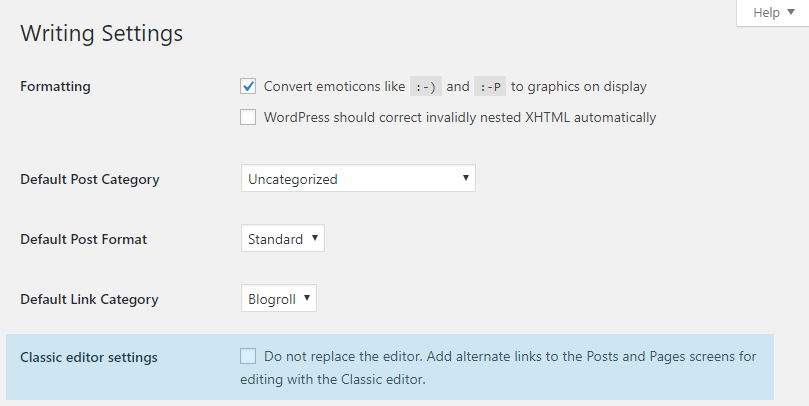
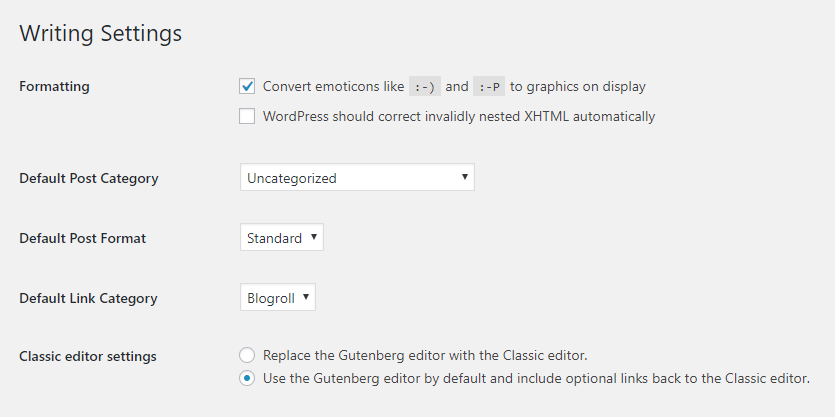
Sync with 0.4
See readme.txt

diff --git a/classic-editor.php b/classic-editor.php
@@ -5,7 +5,7 @@
  * Plugin Name: Classic Editor
  * Plugin URI:  https://wordpress.org
  * Description: Enables the WordPress classic editor and the old-style Edit Post screen layout (TinyMCE, meta boxes, etc.). Supports the older plugins that extend this screen.
- * Version:     0.2
+ * Version:     0.4
  * Author:      WordPress Contributors
  * License:     GPL-2.0+
  * License URI: http://www.gnu.org/licenses/old-licenses/gpl-2.0.html
@@ -34,7 +34,7 @@ if ( ! defined( 'ABSPATH' ) ) {
  * @return bool Whether the Gutenberg plugin is active.
  */
 function classic_editor_is_gutenberg_active() {
-	if ( in_array( 'gutenberg/gutenberg.php', (array) get_option( 'active_plugins', array() ) ) ||
+	if ( in_array( 'gutenberg/gutenberg.php', (array) get_option( 'active_plugins' ) ) ||
 		( is_multisite() && array_key_exists( 'gutenberg/gutenberg.php', (array) get_site_option( 'active_sitewide_plugins' ) ) ) ) {
 
 		return true;
@@ -45,6 +45,13 @@ function classic_editor_is_gutenberg_active() {
 
 add_action( 'plugins_loaded', 'classic_editor_init_actions' );
 function classic_editor_init_actions() {
+	// Always remove the "Try Gutenberg" dashboard widget. See https://core.trac.wordpress.org/ticket/44635.
+	remove_action( 'try_gutenberg_panel', 'wp_try_gutenberg_panel' );
+
+	// Always show the settings and the link to them in the plugins list table.
+	add_filter( 'plugin_action_links', 'classic_editor_add_settings_link', 10, 2 );
+	add_action( 'admin_init', 'classic_editor_admin_init' );
+
 	if ( ! classic_editor_is_gutenberg_active() || ! (
 		has_filter( 'replace_editor', 'gutenberg_init' ) ||
 		has_filter( 'load-post.php', 'gutenberg_intercept_edit_post' ) ) ) {
@@ -58,15 +65,10 @@ function classic_editor_init_actions() {
 	if ( $replace || isset( $_GET['classic-editor'] ) ) {
 		// gutenberg.php
 		remove_action( 'admin_menu', 'gutenberg_menu' );
-		remove_action( 'load-post.php', 'gutenberg_intercept_edit_post' );
-		remove_action( 'load-post-new.php', 'gutenberg_intercept_post_new' );
 		remove_action( 'admin_notices', 'gutenberg_wordpress_version_notice' );
 		remove_action( 'admin_init', 'gutenberg_redirect_demo' );
 
 		remove_filter( 'replace_editor', 'gutenberg_init' );
-
-		// lib/blocks.php
-		remove_filter( 'wp_insert_post_data', 'gutenberg_wpautop_insert_post_data' );
 
 		// lib/client-assets.php
 		remove_action( 'wp_enqueue_scripts', 'gutenberg_register_scripts_and_styles', 5 );
@@ -75,20 +77,27 @@ function classic_editor_init_actions() {
 		remove_action( 'admin_enqueue_scripts', 'gutenberg_common_scripts_and_styles' );
 
 		// lib/compat.php
-		remove_action( 'wp_enqueue_scripts', 'gutenberg_ensure_wp_api_request', 20 );
-		remove_action( 'admin_enqueue_scripts', 'gutenberg_ensure_wp_api_request', 20 );
-
 		remove_filter( 'wp_refresh_nonces', 'gutenberg_add_rest_nonce_to_heartbeat_response_headers' );
 
 		// lib/register.php
 		remove_action( 'plugins_loaded', 'gutenberg_trick_plugins_into_registering_meta_boxes' );
-		remove_action( 'rest_api_init', 'gutenberg_register_rest_routes' );
-		remove_action( 'rest_api_init', 'gutenberg_register_rest_api_post_revisions' );
 		remove_action( 'edit_form_top', 'gutenberg_remember_classic_editor_when_saving_posts' );
 
 		remove_filter( 'redirect_post_location', 'gutenberg_redirect_to_classic_editor_when_saving_posts' );
 		remove_filter( 'get_edit_post_link', 'gutenberg_revisions_link_to_editor' );
 		remove_filter( 'wp_prepare_revision_for_js', 'gutenberg_revisions_restore' );
+
+		// lib/rest-api.php
+		remove_action( 'rest_api_init', 'gutenberg_register_rest_routes' );
+		remove_action( 'rest_api_init', 'gutenberg_add_taxonomy_visibility_field' );
+
+		remove_filter( 'rest_request_after_callbacks', 'gutenberg_filter_oembed_result' );
+		remove_filter( 'registered_post_type', 'gutenberg_register_post_prepare_functions' );
+		remove_filter( 'registered_taxonomy', 'gutenberg_register_taxonomy_prepare_functions' );
+		remove_filter( 'rest_index', 'gutenberg_ensure_wp_json_has_theme_supports' );
+		remove_filter( 'rest_request_before_callbacks', 'gutenberg_handle_early_callback_checks' );
+		remove_filter( 'rest_user_collection_params', 'gutenberg_filter_user_collection_parameters' );
+		remove_filter( 'rest_request_after_callbacks', 'gutenberg_filter_request_after_callbacks' );
 
 		// lib/meta-box-partial-page.php
 		remove_action( 'do_meta_boxes', 'gutenberg_meta_box_save', 1000 );
@@ -119,8 +128,6 @@ function classic_editor_init_actions() {
 		// lib/blocks.php
 		// remove_filter( 'the_content', 'do_blocks', 9 );
 
-		// remove_filter( 'rest_index', 'gutenberg_ensure_wp_json_has_permalink_structure' );
-
 		// Continue to disable wpautop inside TinyMCE for posts that were started in Gutenberg.
 		// remove_filter( 'wp_editor_settings', 'gutenberg_disable_editor_settings_wpautop' );
 
@@ -140,9 +147,6 @@ function classic_editor_init_actions() {
 
 		add_filter( 'redirect_post_location', 'classic_editor_redirect_location' );
 	}
-
-	add_action( 'admin_init', 'classic_editor_admin_init' );
-	add_filter( 'plugin_action_links', 'classic_editor_add_settings_link', 10, 2 );
 
 	// Gutenberg plugin: remove the "Classic editor" row actions.
 	remove_action( 'admin_init', 'gutenberg_add_edit_link_filters' );
@@ -165,13 +169,21 @@ function classic_editor_admin_init() {
  * Output HTML for the settings.
  */
 function classic_editor_settings() {
-	$no_replace = get_option( 'classic-editor-replace' ) === 'no-replace';
+	$replace = get_option( 'classic-editor-replace' ) !== 'no-replace';
 
 	?>
-	<p id="classic-editor-options" style="margin: 0;"><label>
-		<input type="checkbox" name="classic-editor-replace" value="no-replace"<?php if ( $no_replace ) echo ' checked'; ?> />
-		<?php _e( 'Do not replace the editor. Add alternate links to the Posts and Pages screens for editing with the Classic editor.', 'classic-editor' ); ?>
-	</label></p>
+	<p id="classic-editor-options" style="margin: 0;">
+		<input type="radio" name="classic-editor-replace" id="classic-editor-replace" value="replace"<?php if ( $replace ) echo ' checked'; ?> />
+		<label for="classic-editor-replace">
+		<?php _e( 'Replace the Gutenberg editor with the Classic editor.', 'classic-editor' ); ?>
+		</label>
+		<br>
+
+		<input type="radio" name="classic-editor-replace" id="classic-editor-no-replace" value="no-replace"<?php if ( ! $replace ) echo ' checked'; ?> />
+		<label for="classic-editor-no-replace">
+		<?php _e( 'Use the Gutenberg editor by default and include optional links back to the Classic editor.', 'classic-editor' ); ?>
+		</label>
+	</p>
 	<script>
 	jQuery( 'document' ).ready( function( $ ) {
 		if ( window.location.hash === '#classic-editor-options' ) {
@@ -340,7 +352,7 @@ function classic_editor_add_edit_links( $actions, $post ) {
 register_activation_hook( __FILE__, 'classic_editor_activate' );
 function classic_editor_activate() {
 	if ( ! get_option( 'classic-editor-replace' ) ) {
-		update_option( 'classic-editor-replace', 'no-replace' );
+		update_option( 'classic-editor-replace', 'replace' );
 	}
 }
 
